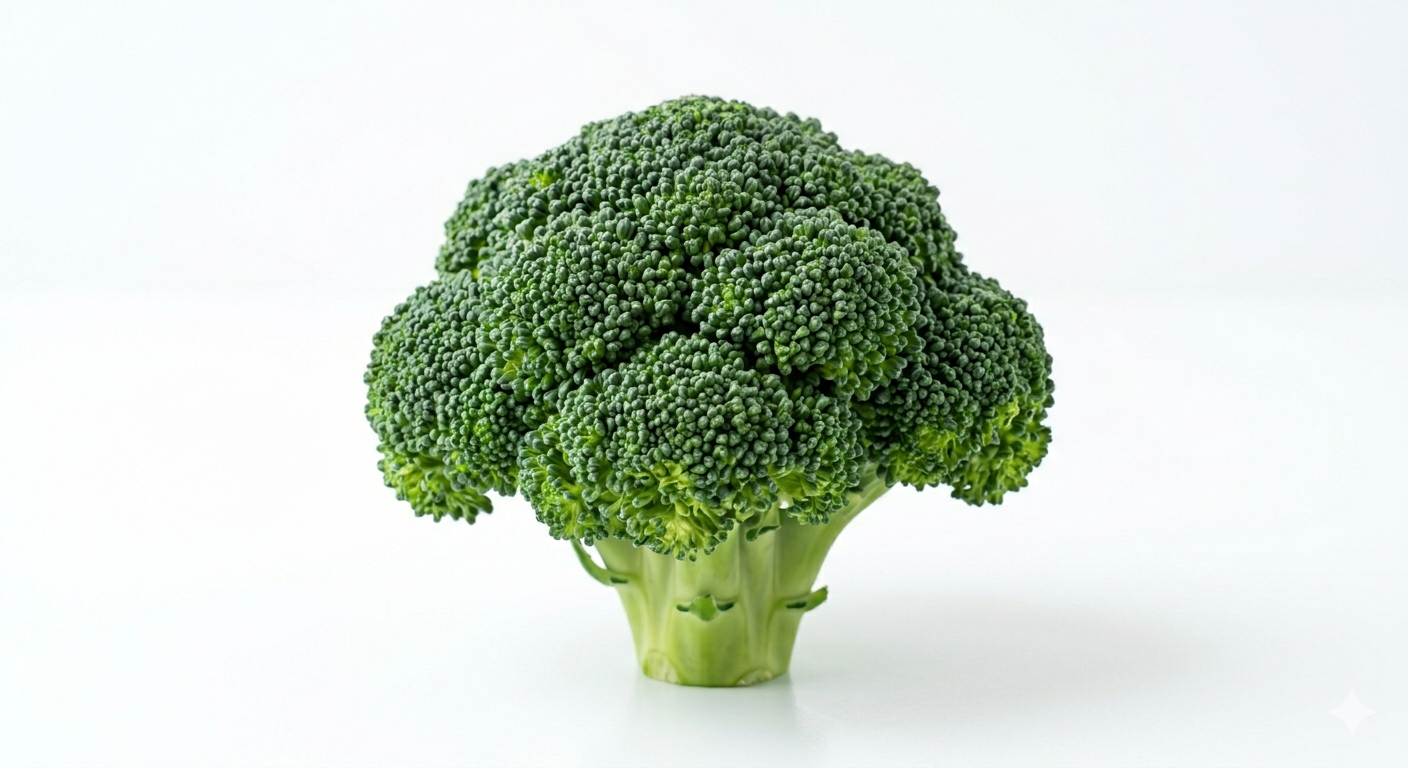
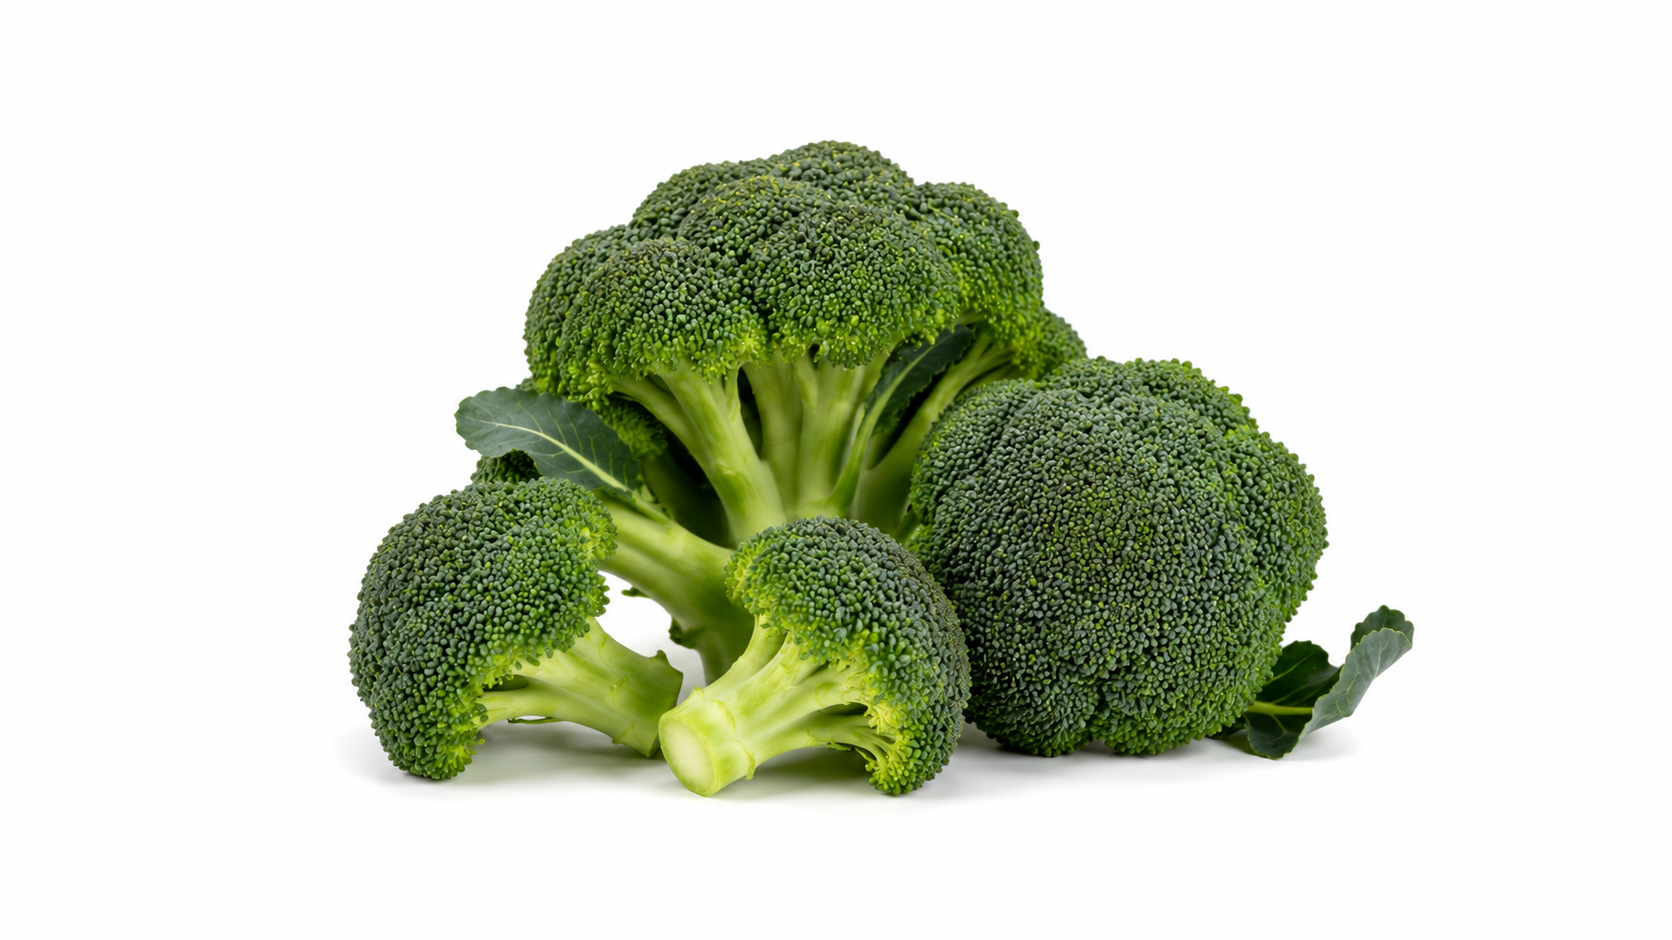
added products images

diff --git a/lib/Products.ts b/lib/Products.ts
@@ -20,7 +20,7 @@ export const products: Product[] = [
     id: "ambrosia-apples",
     name: "Ambrosia Apples",
     category: "fruits",
-    image: "/images/products/ambrosia-apples.png",
+    image: "/images/products/Ambrosia-Apples.png",
     description:
       "Sweet, crisp apples with a honeyed flavor, perfect for fresh eating.",
     availability: "In Season",
@@ -95,7 +95,7 @@ export const products: Product[] = [
     id: "fuji-apples",
     name: "Fuji Apples",
     category: "fruits",
-    image: "/images/products/apples.png",
+    image: "/images/products/fuji-apples.png",
     description: "Crisp, sweet apples with a long shelf life.",
     availability: "Year Round",
     packaging: ["Bushel", "40 lb case"],
@@ -158,7 +158,7 @@ export const products: Product[] = [
     id: "black-seedless-grapes",
     name: "Black Seedless Grapes",
     category: "fruits",
-    image: "/images/products/black-seedless-grapes.png",
+    image: "/images/products/Black-Seedless-Grapes.png",
     description: "Sweet, juicy black seedless grapes.",
     availability: "Year Round",
     packaging: ["18 lb case"],
@@ -313,7 +313,7 @@ export const products: Product[] = [
     id: "broccoli",
     name: "Broccoli",
     category: "vegetables",
-    image: "/images/products/broccolis.png",
+    image: "/images/products/broccoli.png",
     description: "Fresh, crisp broccoli crowns.",
     availability: "Year Round",
     packaging: ["Crown case"],
@@ -412,7 +412,7 @@ export const products: Product[] = [
     id: "zucchini",
     name: "Zucchini",
     category: "vegetables",
-    image: "/images/products/zucchinis.png",
+    image: "/images/products/zucchini.png",
     description: "Fresh, tender zucchini sourced daily.",
     availability: "Year Round",
     packaging: ["Fancy case", "Medium case"],
@@ -441,7 +441,7 @@ export const products: Product[] = [
     id: "coleslaw",
     name: "Coleslaw Mix",
     category: "greens-salads",
-    image: "/images/products/coleslaw.png",
+    image: "/images/products/Coleslaw-Mix.png",
     description: "Pre-shredded coleslaw blend, ready to use.",
     availability: "Year Round",
     packaging: ["4x5lb case"],
@@ -515,7 +515,7 @@ export const products: Product[] = [
     id: "almonds",
     name: "Almonds",
     category: "nuts",
-    image: "/images/products/Nuts/Almonds.png",
+    image: "/images/products/Almonds.png",
     description: "Premium quality raw almonds, new crop.",
     availability: "Year Round",
     packaging: ["Case"],
@@ -524,7 +524,7 @@ export const products: Product[] = [
     id: "walnuts",
     name: "Walnuts",
     category: "nuts",
-    image: "/images/products/Nuts/Walnuts.png",
+    image: "/images/products/Walnuts.png",
     description: "Fresh, premium Eureka Dark Chandler walnuts.",
     availability: "Year Round",
     packaging: ["Case"],